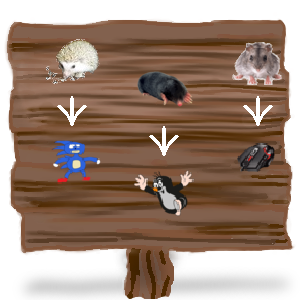
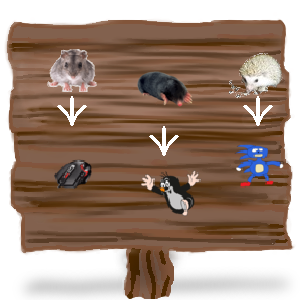
пытаюсь сделать крафт

diff --git a/TrueAlchemicalWalker/Game1.cs b/TrueAlchemicalWalker/Game1.cs
@@ -13,6 +13,7 @@ namespace TrueAlchemicalWalker
         public SpriteRenderer spriteRenderer;
         public Player player;
         public Background background;
+        public Arrows arrows;
 
         public List<Obstacle> obstacles;
         public List<Obstacle> newObstacles;
@@ -21,7 +22,7 @@ namespace TrueAlchemicalWalker
         public NonPlayPlants nonPlayPlants;
         public GameSetting setting;
         public PlayerController playerController;
-        public PlantsGetController plantsGetController;
+        public GetPlantsController getPlantsController;
 
         public Game1()
         {
@@ -34,20 +35,21 @@ namespace TrueAlchemicalWalker
         protected override void Initialize()
         {
             player = new Player();
+            arrows = new Arrows();
             background = new Background();
 
             obstacles = new List<Obstacle>
             {
-                new Obstacle("hedgehogs", 10),
-                new Obstacle("mouses", 6),
-                new Obstacle("moles", 2)
+                new Obstacle("mouses", 10),
+                new Obstacle("moles", 10),
+                new Obstacle("hedgehogs", 10)
             };
 
             newObstacles = new List<Obstacle>
             {
-                new Obstacle("newHedgehogs", 10),
-                new Obstacle("newMouses", 6),
-                new Obstacle("newMoles", 2)
+                new Obstacle("newMouses", 0),
+                new Obstacle("newMoles", 0),
+                new Obstacle("newHedgehogs", 0)
             };
 
             setting = new GameSetting(player, background);
@@ -55,11 +57,11 @@ namespace TrueAlchemicalWalker
             nonPlayPlants = new NonPlayPlants();
             spriteBatch = new SpriteBatch(GraphicsDevice);
             inventory = new Inventory(background, spriteBatch, obstacles);
-            workbench = new Workbench(background, spriteBatch, obstacles);
+            workbench = new Workbench(background, spriteBatch, obstacles, arrows);
 
-            spriteRenderer = new SpriteRenderer(player, background, obstacles, nonPlayPlants, spriteBatch, inventory, workbench);
+            spriteRenderer = new SpriteRenderer(player, background, obstacles, nonPlayPlants, spriteBatch, inventory, workbench, setting);
             playerController = new PlayerController(player, background, obstacles, nonPlayPlants, setting, inventory, workbench);
-            plantsGetController = new PlantsGetController(player, background, obstacles, nonPlayPlants, setting);
+            getPlantsController = new GetPlantsController(player, background, obstacles, nonPlayPlants, setting);
 
             base.Initialize();
         }
@@ -71,11 +73,10 @@ namespace TrueAlchemicalWalker
             setting.GetDictionaryPlants(player, obstacles);
             setting.GetDictionaryNewPlants(player, obstacles);
             for (int i = 0; i < obstacles.Count; i++)
-            {
                 obstacles[i].GenerateRandomPositions(setting, background, obstacles[i]);
-            }
             nonPlayPlants.GenerateRandomPositions(setting, background);
             inventory.GenerateRandomPosition();
+            workbench.GenerateRandomPosition();
         }
 
         protected override void Update(GameTime gameTime)
@@ -86,7 +87,8 @@ namespace TrueAlchemicalWalker
             if (GamePad.GetState(PlayerIndex.One).Buttons.Back == ButtonState.Pressed || keyboardState.IsKeyDown(Keys.Escape))
                 Exit();
             playerController.Update(keyboardState);
-            plantsGetController.Update(mouseState);
+            getPlantsController.Update(mouseState);
+            workbench.CraftNewItem(player, mouseState, setting, obstacles, arrows);
 
             base.Update(gameTime);
         }

diff --git a/TrueAlchemicalWalker/Workbench.cs b/TrueAlchemicalWalker/Workbench.cs
@@ -43,11 +43,12 @@ namespace TrueAlchemicalWalker
             get { return workbenchTexture; }
             set { workbenchTexture = value; }
         }
-        public Workbench(Background background, SpriteBatch spriteBatch, List<Obstacle> obstacles)
+        public Workbench(Background background, SpriteBatch spriteBatch, List<Obstacle> obstacles, Arrows arrows)
         {
             this.background = background;
             this.spriteBatch = spriteBatch;
             this.obstacles = obstacles;
+            this.arrows = arrows;
             random = new Random();
         }
 
@@ -60,13 +61,12 @@ namespace TrueAlchemicalWalker
             Position = new Vector2(x, y);
         }
         
-        public void CraftNewItem (Player player, MouseState mouseState, GameSetting setting, List<Obstacle> obstacles)
+        public void CraftNewItem (Player player, MouseState mouseState, GameSetting setting, List<Obstacle> obstacles, Arrows arrows)
         {
-            arrows = new Arrows(player);
-            var currentNumber = GetNumberOfItem(mouseState, arrows);
+            var currentNumber = GetNumberOfItem(mouseState, arrows, player);
             if (currentNumber != -1)
             {
-                if (player.dictionaryOfAllPlants[obstacles[currentNumber].Name] >= setting.GetActiveCraft()[currentNumber] 
+                if (player.dictionaryOfAllPlants[obstacles[currentNumber].Name] >= setting.GetActiveCraft()[currentNumber]
                     && player.dictionaryOfAllNewPlants[obstacles[currentNumber].Name] > 0)
                 {
                     player.dictionaryOfAllPlants[obstacles[currentNumber].Name] -= setting.GetActiveCraft()[currentNumber];
@@ -75,26 +75,24 @@ namespace TrueAlchemicalWalker
             }
         }
 
-        public int GetNumberOfItem(MouseState mouseState, Arrows arrows)
+        public int GetNumberOfItem(MouseState mouseState, Arrows arrows, Player player)
         {
+            var currentItem = -1;
             for (var i = 0; i < arrows.ListOfArrowsPosition().Count; i++)
-                if (arrows.IsMouseInsideArrow(mouseState, i)) return i;
-            return -1;
+                if (arrows.IsMouseInsideArrow(mouseState, i, player, Position))
+                    return currentItem = i;
+            return currentItem;
         }
 
-        public void Draw(Player player, ContentManager content)
+        public void Draw(Player player, ContentManager content, GameSetting setting)
         {
             numberRenderer = new NumberRenderer(content);
-            arrows = new Arrows(player);
             spriteBatch.Draw(Texture, Position, Color.White);
-            for (var i = 0; i < ListOfNumberPosition().Count; i++)
-            {
-                numberRenderer.DrawNumber(spriteBatch, player.dictionaryOfAllPlants[obstacles[i].Name], Position + ListOfNumberPosition()[i]);
-            }
+            for (var i = 0; i < setting.GetActiveCraft().Count; i++)
+                numberRenderer.DrawNumber(spriteBatch, setting.GetActiveCraft()[i], Position + ListOfNumberPosition()[i]);
+
             for (var i = 0; i < ListOfNewNumberPosition().Count; i++)
-            {
-                numberRenderer.DrawNumber(spriteBatch, player.dictionaryOfAllNewPlants[obstacles[i].Name], Position + ListOfNumberPosition()[i]);
-            }
+                numberRenderer.DrawNumber(spriteBatch, player.dictionaryOfAllNewPlants[obstacles[i].Name], Position + ListOfNewNumberPosition()[i]);
 
         }
     }

diff --git a/TrueAlchemicalWalker/View.cs b/TrueAlchemicalWalker/View.cs
@@ -15,10 +15,10 @@ namespace TrueAlchemicalWalker
         private Workbench workbench;
         private NonPlayPlants trees;
         public SpriteBatch spriteBatch;
-        private NonPlayPlants nonPlayPlants;
+        private GameSetting setting;
 
         public SpriteRenderer(Player player, Background background, List<Obstacle> obstacles, NonPlayPlants trees, SpriteBatch spriteBatch,
-            Inventory inventory, Workbench workbench)
+            Inventory inventory, Workbench workbench, GameSetting gameSetting)
         {
             this.player = player;
             this.background = background;
@@ -27,6 +27,7 @@ namespace TrueAlchemicalWalker
             this.spriteBatch = spriteBatch;
             this.inventory = inventory;
             this.workbench = workbench;
+            this.setting = gameSetting;
         }
 
         public void Draw(ContentManager content)
@@ -34,7 +35,7 @@ namespace TrueAlchemicalWalker
             spriteBatch.Draw(background.Texture, background.Position, Color.White);
             spriteBatch.Draw(player.Texture, player.Position, Color.White);
             inventory.Draw(player.dictionaryOfAllPlants, content);
-            workbench.Draw(player, content);
+            workbench.Draw(player, content, setting);
             for(int i = 0; i < obstacles.Count; i++)
                 DrawListOfItems(obstacles[i].Texture, obstacles[i].listOfObstaclePositions);
             DrawListOfItems(trees.Texture, trees.listOfNonPlayPlantsPositions);
@@ -48,14 +49,14 @@ namespace TrueAlchemicalWalker
 
         public void LoadContent(GraphicsDeviceManager graphicsDevice, ContentManager content)
         {
-            player.Texture = content.Load<Texture2D>("крош-без-фона (1) (1) (1)");
-            background.Texture = content.Load<Texture2D>("фон (1)");
             obstacles[0].Texture = content.Load<Texture2D>("мышь без фона мини");
             obstacles[1].Texture = content.Load<Texture2D>("крот без фона mini");
             obstacles[2].Texture = content.Load<Texture2D>("еж без фона 1");
-            trees.Texture = content.Load<Texture2D>("дерево без фона мини");
-            inventory.Texture = content.Load<Texture2D>("доска крафта");
+            workbench.Texture = content.Load<Texture2D>("доска крафта");
             inventory.Texture = content.Load<Texture2D>("доска с инвентарём");
+            player.Texture = content.Load<Texture2D>("крош-без-фона (1) (1) (1)");
+            background.Texture = content.Load<Texture2D>("фон (1)");
+            trees.Texture = content.Load<Texture2D>("дерево без фона мини");
         }
     }
 }

diff --git a/TrueAlchemicalWalker/Arrows.cs b/TrueAlchemicalWalker/Arrows.cs
@@ -10,13 +10,8 @@ namespace TrueAlchemicalWalker
 {
     public class Arrows
     {
-        public Player player;
         public int Height { get; set; } = 30;
         public int Width { get; set; } = 30;
-        public Arrows(Player player)
-        {
-            this.player = player;
-        }
         public List<Vector2> ListOfArrowsPosition()
         {
             List<Vector2> positions = new()
@@ -27,16 +22,19 @@ namespace TrueAlchemicalWalker
             };
             return positions;
         }
-        public bool IsMouseInsideArrow(MouseState mouseState, int numberOfItem)
+        public bool IsMouseInsideArrow(MouseState mouseState, int numberOfItem, Player player, Vector2 workbanchPosition)
         {
-            return Math.Min(player.Position.Y + player.Texture.Height, ListOfArrowsPosition()[numberOfItem].Y + Height)
-                >= Math.Max(player.Position.Y, ListOfArrowsPosition()[numberOfItem].Y)
-                && Math.Min(player.Position.X + player.Texture.Width, ListOfArrowsPosition()[numberOfItem].X + Width)
-                >= Math.Max(player.Position.X, ListOfArrowsPosition()[numberOfItem].X)
+            return
+                          Math.Min(player.Position.Y + player.Texture.Height, ListOfArrowsPosition()[numberOfItem].Y + Height)
+                       >= Math.Max(player.Position.Y, ListOfArrowsPosition()[numberOfItem].Y)
+                       && Math.Min(player.Position.X + player.Texture.Width, ListOfArrowsPosition()[numberOfItem].X + Width)
+                       >= Math.Max(player.Position.X, ListOfArrowsPosition()[numberOfItem].X)
 
-                && mouseState.Y >= ListOfArrowsPosition()[numberOfItem].Y && (mouseState.Y <= ListOfArrowsPosition()[numberOfItem].Y + Height)
-                && mouseState.X >= ListOfArrowsPosition()[numberOfItem].X && (mouseState.X <= ListOfArrowsPosition()[numberOfItem].X + Width)
-               && (mouseState.RightButton == ButtonState.Pressed);
+                &&
+                mouseState.Y >= ListOfArrowsPosition()[numberOfItem].Y && mouseState.Y <= ListOfArrowsPosition()[numberOfItem].Y + workbanchPosition.Y + Height
+                && mouseState.X >= ListOfArrowsPosition()[numberOfItem].X && mouseState.X <= ListOfArrowsPosition()[numberOfItem].X + workbanchPosition.X + Width
+               && (mouseState.RightButton == ButtonState.Pressed)
+               ;
         }
     }
 }

diff --git a/TrueAlchemicalWalker/Controllers/PlantsGetController.cs b/TrueAlchemicalWalker/Controllers/PlantsGetController.cs
@@ -9,7 +9,7 @@ using Microsoft.Xna.Framework;
 
 namespace TrueAlchemicalWalker
 {
-    public class PlantsGetController
+    public class GetPlantsController
     {
         private Player player;
         private Background background;
@@ -18,7 +18,7 @@ namespace TrueAlchemicalWalker
         public MultipleItemsController multipleItemsController;
         public NonPlayPlants nonPlayPlants;
 
-        public PlantsGetController(Player player, Background background, List<Obstacle> obstacles, NonPlayPlants nonPlayPlants, GameSetting settings)
+        public GetPlantsController(Player player, Background background, List<Obstacle> obstacles, NonPlayPlants nonPlayPlants, GameSetting settings)
         {
             this.player = player;
             this.background = background;
@@ -51,9 +51,9 @@ namespace TrueAlchemicalWalker
                 && Math.Min(player.Position.X + player.Texture.Width, itemPosition.X + ItemTexture.Width)
                 >= Math.Max(player.Position.X, itemPosition.X)
 
-                   && (mouseState.Y >= itemPosition.Y && mouseState.Y <= (itemPosition.Y + ItemTexture.Height))
-                   && (mouseState.X >= itemPosition.X && mouseState.X <= (itemPosition.X + ItemTexture.Width))
-                   && (mouseState.RightButton == ButtonState.Pressed);
+                && mouseState.Y >= itemPosition.Y && mouseState.Y <= (itemPosition.Y + ItemTexture.Height)
+                && mouseState.X >= itemPosition.X && mouseState.X <= (itemPosition.X + ItemTexture.Width)
+                && (mouseState.RightButton == ButtonState.Pressed);
         }
     }
 }

diff --git a/TrueAlchemicalWalker/Controllers/MultipleItemsController.cs b/TrueAlchemicalWalker/Controllers/MultipleItemsController.cs
@@ -1,9 +1,6 @@
 using Microsoft.Xna.Framework;
 using System;
 using System.Collections.Generic;
-using System.Linq;
-using System.Text;
-using System.Threading.Tasks;
 using TrueAlchemicalWalker.Items;
 
 namespace TrueAlchemicalWalker.Controllers
@@ -27,11 +24,12 @@ namespace TrueAlchemicalWalker.Controllers
         }
         public void ChangeCoord(float changeX, float changeY)
         {
-            for (int i = 0; i < obstacles.Count; i++) ChangeCoordForOne(changeX, changeY, obstacles[i].listOfObstaclePositions);
+            for (int i = 0; i < obstacles.Count; i++) 
+                ChangeCoordForOne(changeX, changeY, obstacles[i].listOfObstaclePositions);
             ChangeCoordForOne(changeX, changeY, nonPlayPlants.listOfNonPlayPlantsPositions);
-            ChangeCoordForOne(changeX, changeY, new List<Vector2> { background.Position });
-            ChangeCoordForOne(changeX, changeY, new List<Vector2> { inventory.Position });
-            ChangeCoordForOne(changeX, changeY, new List<Vector2> { workbench.Position });
+            background.Position = new Vector2(background.Position.X + changeX, background.Position.Y + changeY);
+            inventory.Position = new Vector2(inventory.Position.X + changeX, inventory.Position.Y + changeY);
+            workbench.Position = new Vector2(workbench.Position.X + changeX, workbench.Position.Y + changeY);
         }
 
         private static void ChangeCoordForOne(float changeX, float changeY, List<Vector2> listOfItems)

diff --git a/TrueAlchemicalWalker/GameSetting.cs b/TrueAlchemicalWalker/GameSetting.cs
@@ -16,12 +16,12 @@ namespace TrueAlchemicalWalker
         public int countOfObstacle { get; set; } = 10;
         public int countOfNonPlayPLants { get; set; } = 20;
         public float speed { get; set; } = 5f;
-        public int gameDifficulty { get; set; } = 5;
-        public int activeCrafting { get; set; } = 2;
+        public int gameDifficulty { get; set; } = 2;
+        public int activeCrafting { get; set; } = 0;
         public List<List<int>> ListOfCraftingCost = new List<List<int>>()
         {
             new List<int>() { 1, 2, 3 },
-            new List<int>() { 2, 1, 1 },
+            new List<int>() { 1, 1, 1 },
             new List<int>() { 3, 1, 2 }
         };
         public List<int> GetActiveCraft()
@@ -48,7 +48,7 @@ namespace TrueAlchemicalWalker
         public void GetDictionaryPlants(Player player, List<Obstacle> obstacles)
         {
             for (int i = 0; i < obstacles.Count; i++)
-                player.dictionaryOfAllPlants.Add(obstacles[i].Name, 11);
+                player.dictionaryOfAllPlants.Add(obstacles[i].Name, 20);
         }
         public void GetDictionaryNewPlants(Player player, List<Obstacle> obstacles)
         {

diff --git a/TrueAlchemicalWalker/Inventory.cs b/TrueAlchemicalWalker/Inventory.cs
@@ -55,9 +55,7 @@ namespace TrueAlchemicalWalker
             numberRenderer = new NumberRenderer(content);
             spriteBatch.Draw(inventoryTexture, Position, Color.White);
             for (var i = 0; i < listOfNumberPosition().Count; i++ )
-            {
-                numberRenderer.DrawNumber(spriteBatch, dictionaryOfAllPlants[obstacles[i].Name], Position + listOfNumberPosition()[i]);
-            }
+                numberRenderer.DrawNumber(spriteBatch, dictionaryOfAllPlants[obstacles[i].Name] /*obstacles[i].CountOfObstacle*/, Position + listOfNumberPosition()[i]);
         }
 
     }
